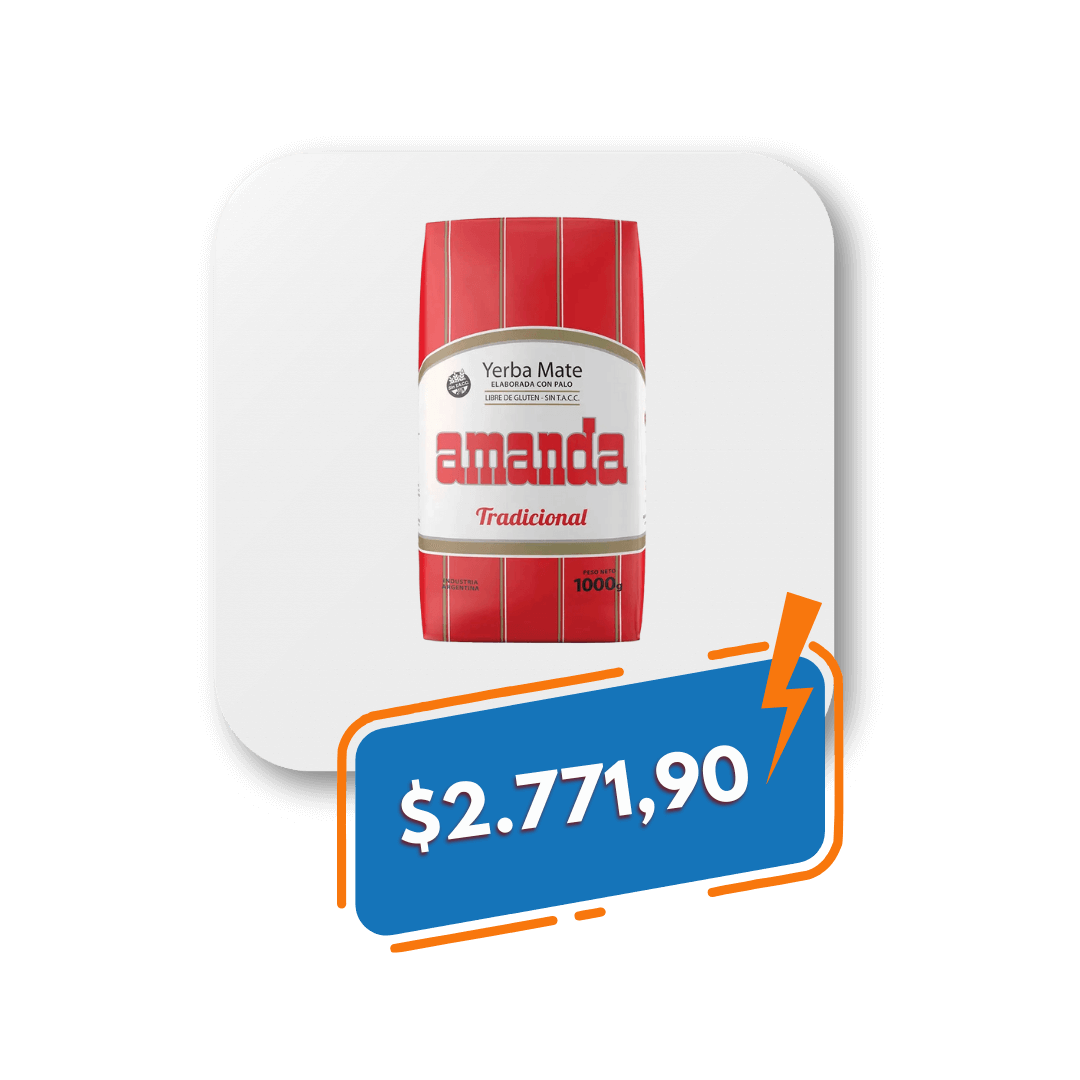
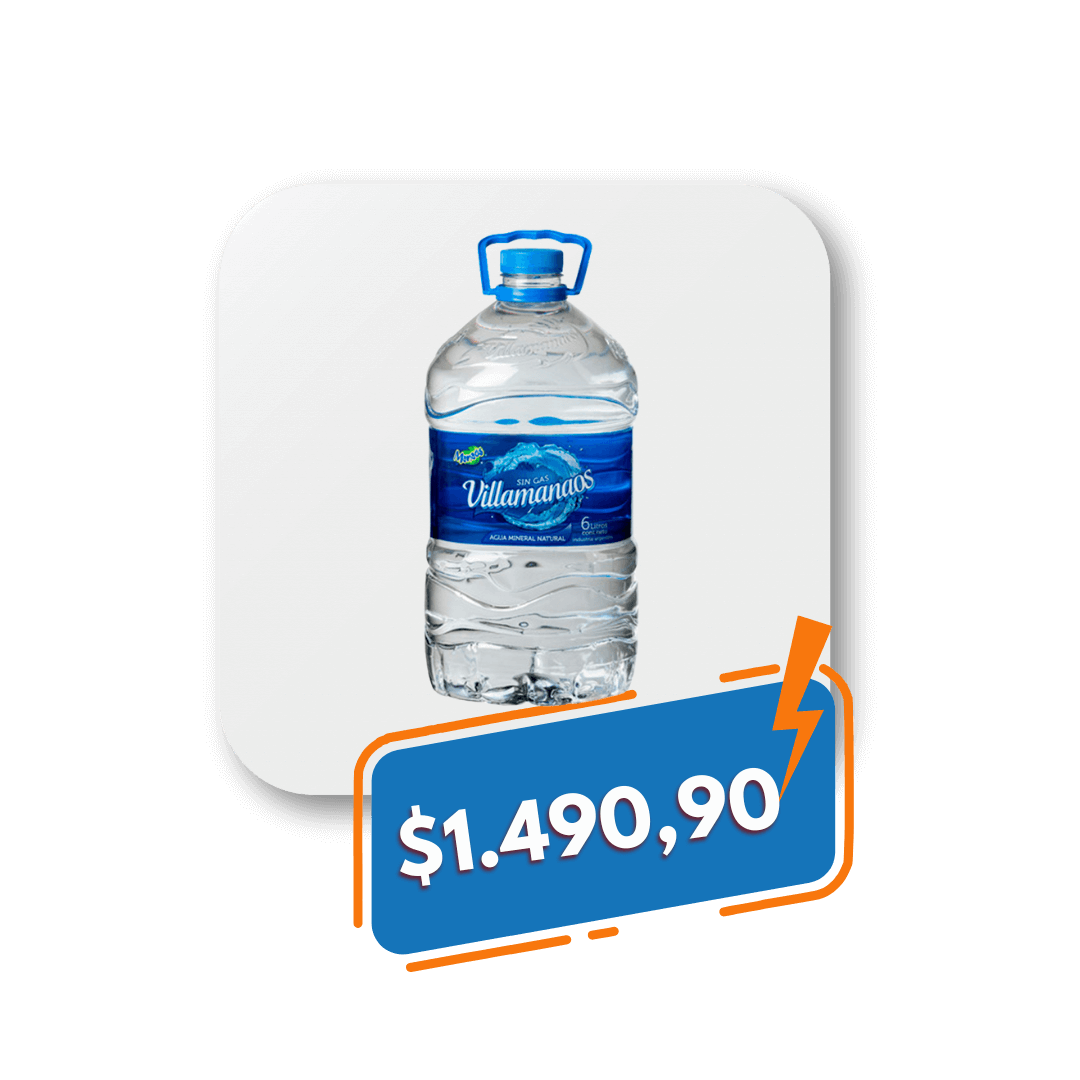
actualizando ofertas

Changed region(s): [[0.2139, 0.1528, 0.7944, 0.9167]]

diff --git a/src/components/atoms/carousel/Carousel.jsx b/src/components/atoms/carousel/Carousel.jsx
@@ -21,13 +21,10 @@ export const Carousel = () => {
 
   const ofertas = [
     { path: '/assets/ofertas/1.png', title: 'QUESO CREMOSO DON FELIX x Kg'},
-    { path: '/assets/ofertas/2.png', title: 'MEDALLONES DE POLLO TRES ARROYOS'},
-    { path: '/assets/ofertas/3.png', title: 'YOGURT CON CEREALES MILKAUT'},
-    { path: '/assets/ofertas/4.png', title: 'YOGURT BEBIBLE MILKAUT'},
-    { path: '/assets/ofertas/5.png', title: 'YERBA AMANDA x 1Kg'},
-    { path: '/assets/ofertas/6.png', title: 'BROWNIE CON CHIPS DE CHOCOLATE'},
-    { path: '/assets/ofertas/8.png', title: 'LAVANDINA EN GEL HÉROE'},
-    { path: '/assets/ofertas/7.webp', title: 'AZÚCAR LEDESMA x 1Kg'},
+    { path: '/assets/ofertas/2.png', title: 'CERVEZA ORTUZAR PACK x6'},
+    { path: '/assets/ofertas/4.png', title: 'SALCHICHAS FELA x6u'},
+    { path: '/assets/ofertas/5.png', title: 'AGUA VILLAMANAOS 6Lts'},
+    { path: '/assets/ofertas/6.png', title: 'AZUCAR CHANGUITO x1Kg'},
   ];
   
   return (

diff --git a/src/components/tabs/Tabs.jsx b/src/components/tabs/Tabs.jsx
@@ -38,10 +38,10 @@ export const Tabs = () => {
       </div>
       <div className={styles.tabs}>
         <button onClick={handleNavigate('/')}>Ofertas</button>
+        <button onClick={handleNavigate('/distribuidora')}>Distribuidora</button>
         <button onClick={handleNavigate('/clientes')}>Nuestros clientes</button>
         <button onClick={handleNavigate('/empresa')}>La empresa</button>
         <button onClick={handleNavigate('/sucursales')}>Sucursales</button>
-        <button onClick={handleNavigate('/distribuidora')}>Distribuidora</button>
       </div>
       <div className={styles.socialscontainer}>
         <a href="https://www.facebook.com/refrigeradosantiago" target="_blank" rel="noopener noreferrer">

diff --git a/src/components/Navbar/Navbar.jsx b/src/components/Navbar/Navbar.jsx
@@ -29,6 +29,10 @@ const navItems = [
     path: '/'
   },
   {
+    name: 'Distribuidora',
+    path: '/distribuidora'
+  },
+  {
     name: 'Nuestros clientes',
     path: '/clientes'
   },
@@ -39,10 +43,6 @@ const navItems = [
   {
     name: 'Sucursales',
     path: '/sucursales'
-  },
-  {
-    name: 'Distribuidora',
-    path: '/distribuidora'
   }
 ];
 
